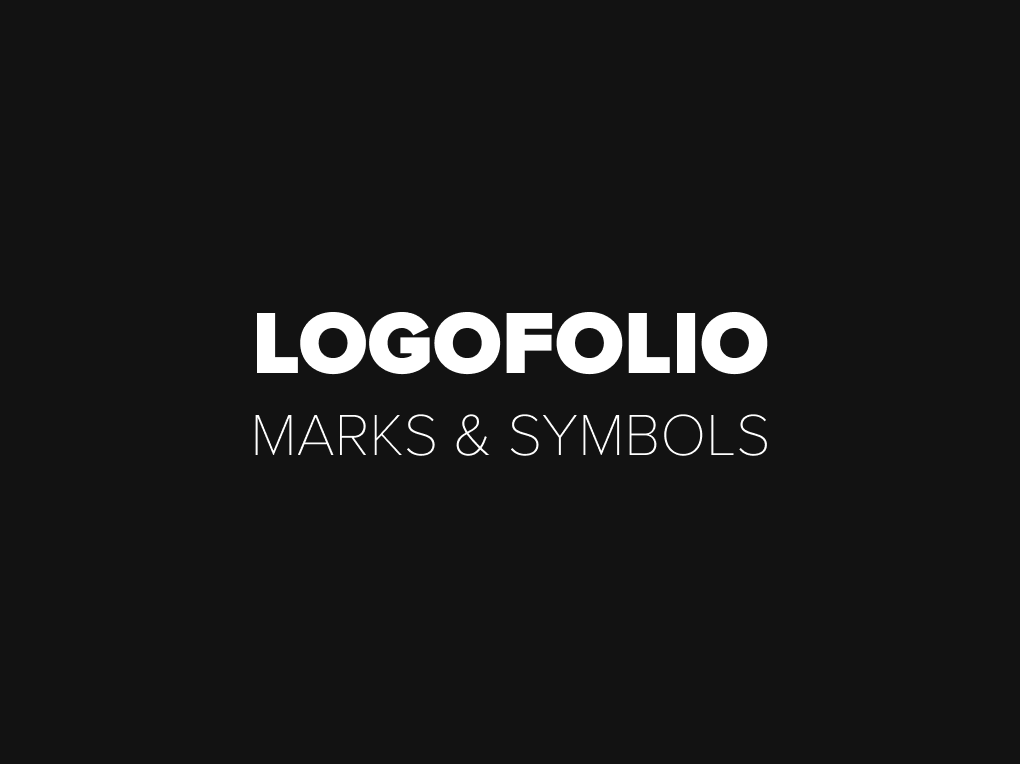
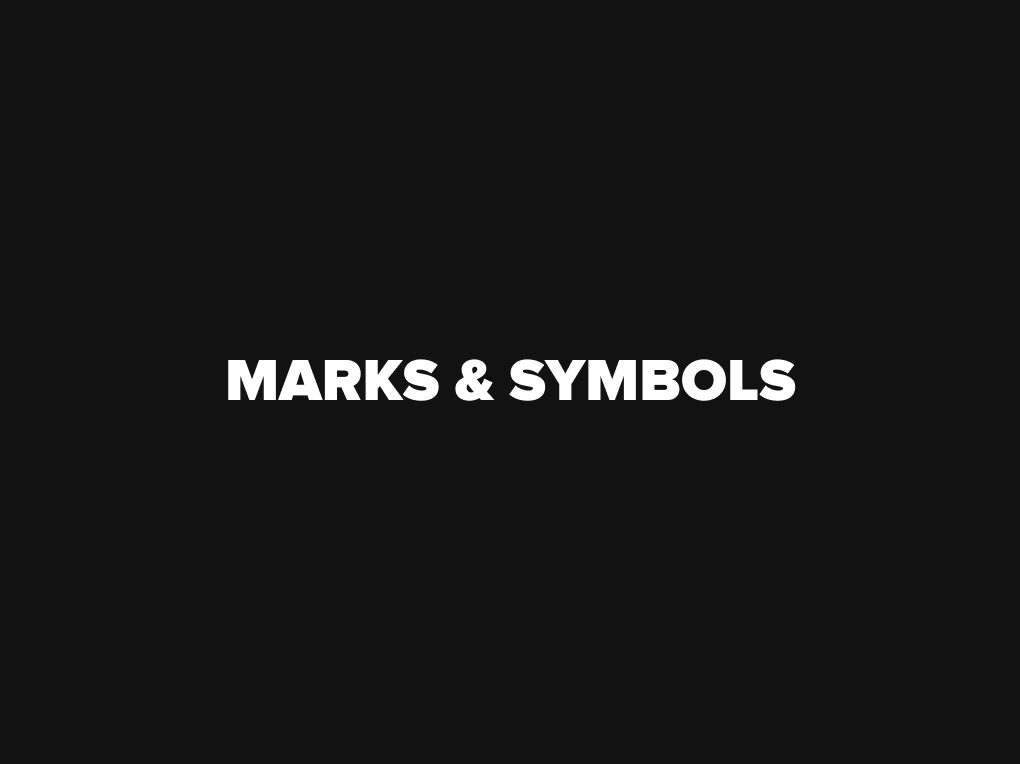
ADD

Changed region(s): [[0.2127, 0.3914, 0.7902, 0.6021]]

diff --git a/index.html b/index.html
@@ -69,68 +69,22 @@
             </div>
             <div class="s-projects">
                 <div class="m-projects">
-                    <div class="project">
+                    <div class="project" data-aos="fade-up" data-aos-delay="100" data-aos-duration="300">
                         <a href="project-01.html"><img src="img/project-01.png"></a>
-                        <p>PROJECT 1</p>
+                        <p>LOGOFOLIO - MARKS & SYMBOLS</p>
                     </div>
-                    <div class="project">
+                    <div class="project" data-aos="fade-up" data-aos-delay="200" data-aos-duration="300">
                         <a href="project-01.html"><img src="img/project-02.png"></a>
-                        <p>PROJECT 2</p>
+                        <p>BLADEMARK - BRAND CREATION</p>
                     </div>
                 </div>
                 <div class="m-projects">
-                    <div class="project">
-                        <a href="project-01.html"><img src="img/project-02.png"></a>
-                        <p>PROJECT 3</p>
+                    <div class="project" data-aos="fade-up" data-aos-delay="300" data-aos-duration="300">
+                        <a href="project-01.html"><img src="img/project-03.png"></a>
+                        <p>CLOTHING & MERCH DESIGN</p>
                     </div>
-                    <div class="project p4th">
-                        <a href="project-01.html"><img src="img/project-02.png"></a>
-                        <p>PROJECT 4</p>
-                    </div>
-                </div>
-            </div>
-
-            <div class="s-projects">
-                <div class="m-projects">
-                    <div class="project">
-                        <a href="project-01.html"><img src="img/project-01.png"></a>
-                        <p>PROJECT 1</p>
-                    </div>
-                    <div class="project">
-                        <a href="project-01.html"><img src="img/project-02.png"></a>
-                        <p>PROJECT 2</p>
-                    </div>
-                </div>
-                <div class="m-projects">
-                    <div class="project">
-                        <a href="project-01.html"><img src="img/project-02.png"></a>
-                        <p>PROJECT 3</p>
-                    </div>
-                    <div class="project p4th">
-                        <a href="project-01.html"><img src="img/project-02.png"></a>
-                        <p>PROJECT 4</p>
-                    </div>
-                </div>
-            </div>
-
-            <div class="s-projects">
-                <div class="m-projects">
-                    <div class="project">
-                        <a href="project-01.html"><img src="img/project-01.png"></a>
-                        <p>PROJECT 1</p>
-                    </div>
-                    <div class="project">
-                        <a href="project-01.html"><img src="img/project-02.png"></a>
-                        <p>PROJECT 2</p>
-                    </div>
-                </div>
-                <div class="m-projects">
-                    <div class="project">
-                        <a href="project-01.html"><img src="img/project-02.png"></a>
-                        <p>PROJECT 3</p>
-                    </div>
-                    <div class="project p4th">
-                        <a href="project-01.html"><img src="img/project-02.png"></a>
+                    <div class="project" data-aos="fade-up" data-aos-delay="400" data-aos-duration="300">
+                        <a href="project-01.html"><img src="img/project-04.png"></a>
                         <p>PROJECT 4</p>
                     </div>
                 </div>

diff --git a/css/new-responsive.css b/css/new-responsive.css
@@ -1,65 +1,53 @@
-@media (max-width: 320px) { 
-body {
-    display: none;
-}
+@media (max-width: 320px) {
+    body {
+        display: none;
+    }
 }
 
 @media (max-width: 768px) {
-   
-    .m-projects {
-        flex-direction: column;
-    }
-    .project {
-        margin-right: 0;
-    }
+
     #designers {
         flex-direction: column;
     }
+
     .designers-wrapper {
         flex-direction: column;
     }
+
     .designer:first-child {
         margin-right: 0;
     }
-    /* .madeby {
-        text-align: center;
-        padding: 5px 19px 5px;
-    }
+}
 
-    .copyright {
-        text-align: center;
-        padding: 5px 19px 5px;
-    } */
-}
-@media (max-width: 1200px) { 
-    .s-projects {
-        flex-direction: column;
-    }
-    .project {
-        margin-right: 10px;
-    }
-    .project:nth-child(2) {
-        margin-right: 0;
-      }
-      .designer:first-child {
+@media (max-width: 1200px) {
+
+    .designer:first-child {
         margin-right: 10px;
     }
 }
-@media (max-width: 1480px) { 
+
+@media (max-width: 1480px) {
+
     #studio {
         margin-top: 40px;
     }
+
     .main-wrapper {
         padding: 0 10px;
     }
+
     .header-style1-wrap {
         padding: 0 10px;
     }
-   
-    /* .modal-content {
-        padding: 0 20px;
+}
+
+@media (min-width: 769px) {
+
+    .m-projects {
+        flex-direction: row;
     }
-    .modal-header {
-        padding: 0 20px;
-    } */
+
+    .project:nth-child(odd) {
+        margin-right: 20px;
+    }
 }

diff --git a/style.css b/style.css
@@ -453,11 +453,11 @@ li.menu-item a {
 
 .s-projects {
   display: flex;
-  flex-direction: row;
+  flex-direction: column;
 }
 .m-projects {
   display: flex;
-  flex-direction: row;
+  flex-direction: column;
 }
 
 .project {
@@ -466,7 +466,7 @@ li.menu-item a {
   align-items: flex-start;
   flex-grow: 1;
   flex-direction: column;
-  margin-right: 20px;
+  /* margin-right: 20px; */
 }
 
 .project p {
@@ -488,9 +488,9 @@ li.menu-item a {
   margin-right: 0;
 } */
 
-.p4th {
+/* .p4th {
   margin-right: 0;
- }
+ } */
 
 .project-header {
   display: flex;
@@ -513,6 +513,23 @@ li.menu-item a {
   font-weight: 700;
   line-height: normal;
   cursor: pointer;
+}
+.project-info {
+  display: flex;
+  width: 100%;
+  justify-content: space-between;
+  align-items: center;
+}
+
+.p-tag {
+  background-color: #d8d8d8;
+  color: #000000b7;
+  font-size: 1.2rem;
+  text-transform: uppercase;
+  font-weight: 700;
+  line-height: normal;
+  padding: 2px 4px;
+  margin-left: 8px;
 }
 
 
@@ -679,3 +696,4 @@ p.copyright-text {
   text-transform: uppercase;
   color: #000;
 } */
+

diff --git a/project-01.html b/project-01.html
@@ -31,12 +31,13 @@
         </header>
 
         <div class="project-content">
-            <img src="img/bg-contact.png">
+
+            <img src="img/projects/logofolio.png">
             <p>Perfection doesn’t do a 9-5 and neither do we. We are not bound to any time zones or tied to a desk.
                 The project dictates where we need to be and who we need to collaborate with. Essentially, we always
                 go the extra mile.
                 For inquiries and commissions, please send us an email at <b>blademark.co@gmail.com</b></p>
-            <img src="img/bg-contact.png">
+            <img src="img/projects/logomark01.png">
             <p>Perfection doesn’t do a 9-5 and neither do we. We are not bound to any time zones or tied to a desk.
                 The project dictates where we need to be and who we need to collaborate with. Essentially, we always
                 go the extra mile.
